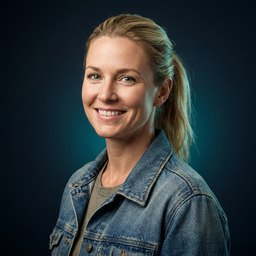
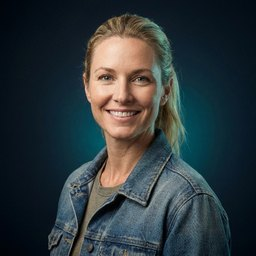
Driver Portal: relojes mas parejos, asistente Rachel con foto frontal

diff --git a/frontend/src/pages/DriverPortal.tsx b/frontend/src/pages/DriverPortal.tsx
@@ -1907,9 +1907,9 @@ export default function DriverPortal() {
         {/* ── Tablero: relojes de camion ─────────────────────── */}
         <div className="px-4 pb-5">
           <div className="max-w-lg mx-auto rounded-3xl px-2 pt-4 pb-3 bg-gradient-to-b from-white/8 to-white/3 border border-white/10">
-            <div className="grid grid-cols-[1fr_1.4fr_1fr] gap-1 items-end">
+            <div className="grid grid-cols-[1fr_1.15fr_1fr] gap-1 items-end">
               <TruckGauge
-                size={108}
+                size={118}
                 value={onTimePct}
                 max={100}
                 label={t('driverPortal.gaugeOnTime')}
@@ -1918,7 +1918,7 @@ export default function DriverPortal() {
                 from="#ef4444" to="#22c55e"
               />
               <TruckGauge
-                size={156}
+                size={134}
                 value={displayRevenue}
                 max={revenueGoal}
                 label={t('driverPortal.gaugeRevenue')}
@@ -1928,7 +1928,7 @@ export default function DriverPortal() {
                 onClick={() => setTab('delivered')}
               />
               <TruckGauge
-                size={108}
+                size={118}
                 value={unlockedCount}
                 max={8}
                 label={t('driverPortal.achievements')}
@@ -4739,8 +4739,8 @@ export default function DriverPortal() {
       <AiAssistantPanel
         chat={assistantApi.chat}
         title={t('driverPortal.assistantTitle')}
-        name="Maya"
-        avatarSrc="/assistants/maya.jpg"
+        name="Rachel"
+        avatarSrc="/assistants/rachel.jpg"
         role={{ es: 'Copiloto del driver', en: 'Driver copilot' }}
         quickPrompts={{
           es: ['¿Cómo activo mi disponibilidad?', '¿Cuánto gané esta semana?', '¿Cómo subo mi seguro (COI)?'],

diff --git a/backend/src/routes/assistant.ts b/backend/src/routes/assistant.ts
@@ -201,7 +201,7 @@ CONOCIMIENTO DE LA PLATAFORMA -- usa esto para responder preguntas de "cómo hag
 
 Responde siempre en el mismo idioma en que te escriban (español o inglés), de forma breve, directa y práctica.`;
 
-  const DRIVER_SYSTEM = `Eres Maya, la asistente de inteligencia artificial de OSI Logistics y copiloto de los conductores. Si te preguntan, aclara siempre que eres una asistente virtual (IA) y no una persona. Tu tono es cercano, claro y práctico, sin emojis. Nunca prometas ingresos ni cargas garantizadas. Ayudas a ${user.name}.
+  const DRIVER_SYSTEM = `Eres Rachel, la asistente de inteligencia artificial de OSI Logistics y copiloto de los conductores. Si te preguntan, aclara siempre que eres una asistente virtual (IA) y no una persona. Tu tono es cercano, claro y práctico, sin emojis. Nunca prometas ingresos ni cargas garantizadas. Ayudas a ${user.name}.
 
 DATOS EN VIVO: puedes consultar sus propias órdenes y sus ganancias. Usa SIEMPRE las herramientas para obtener datos reales -- nunca inventes números. Nunca reveles información de otros conductores.
 
